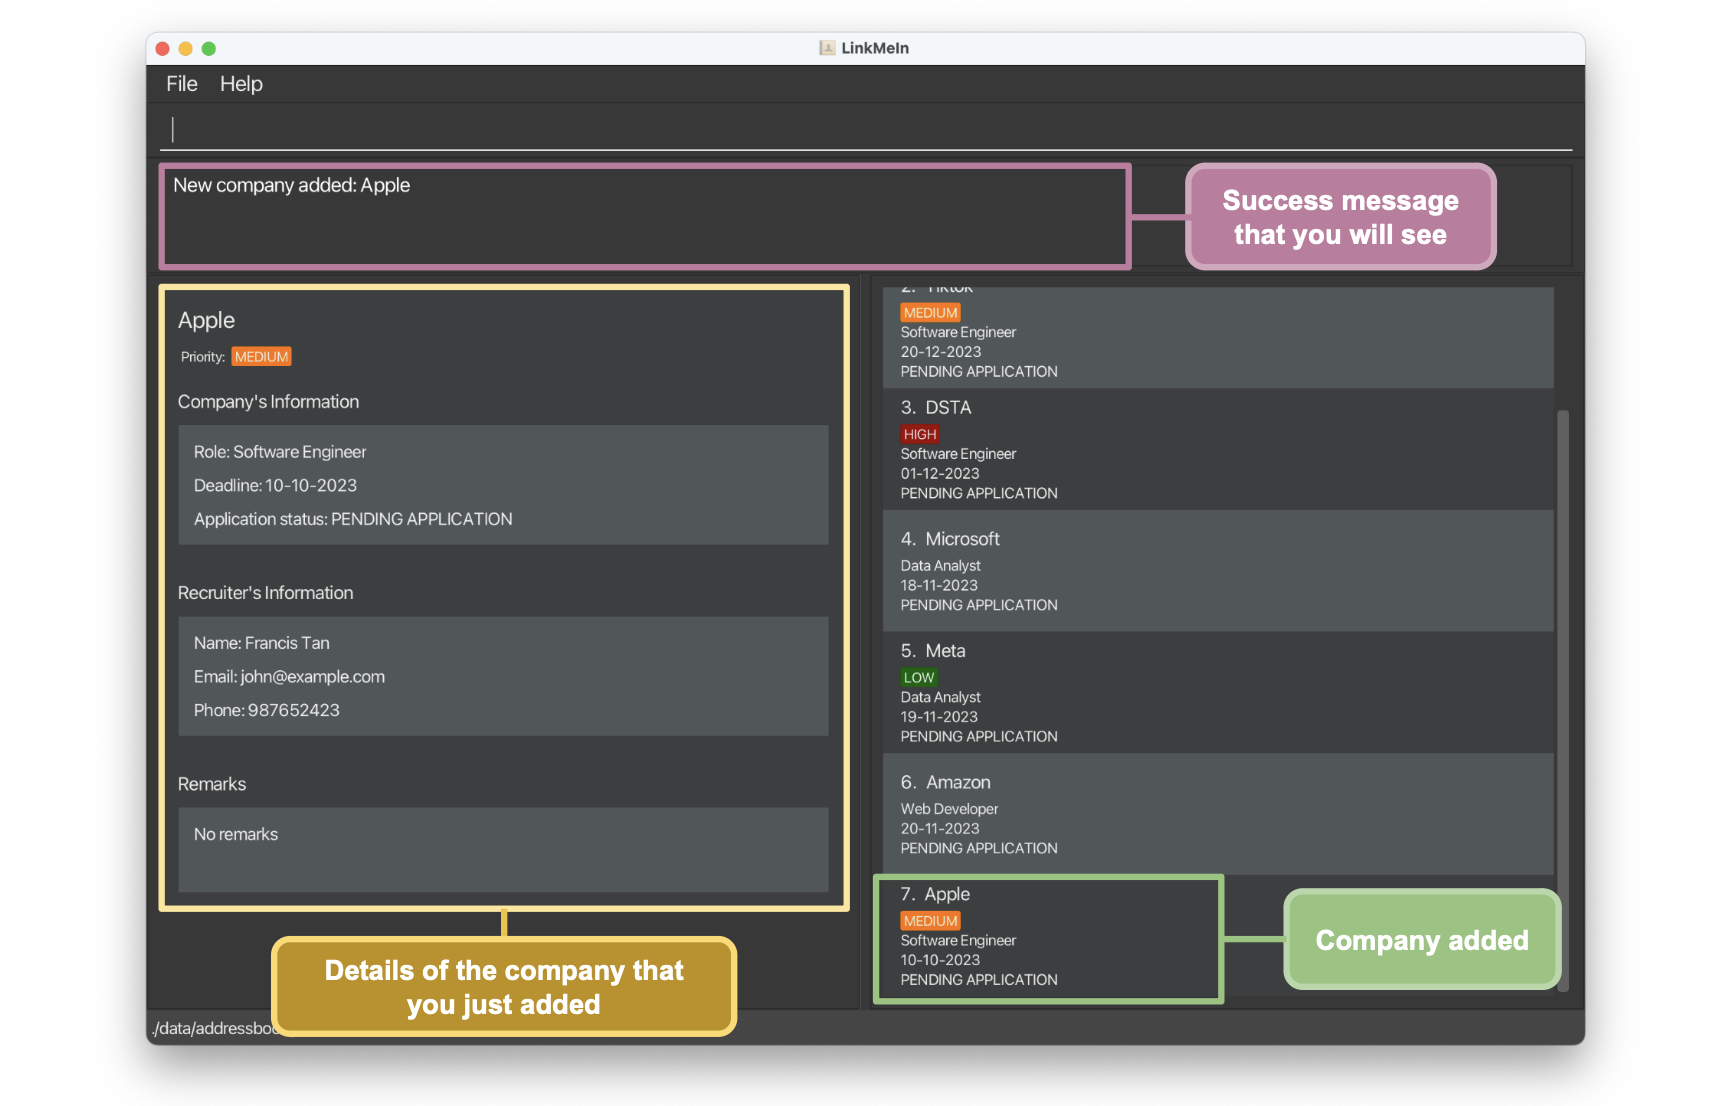
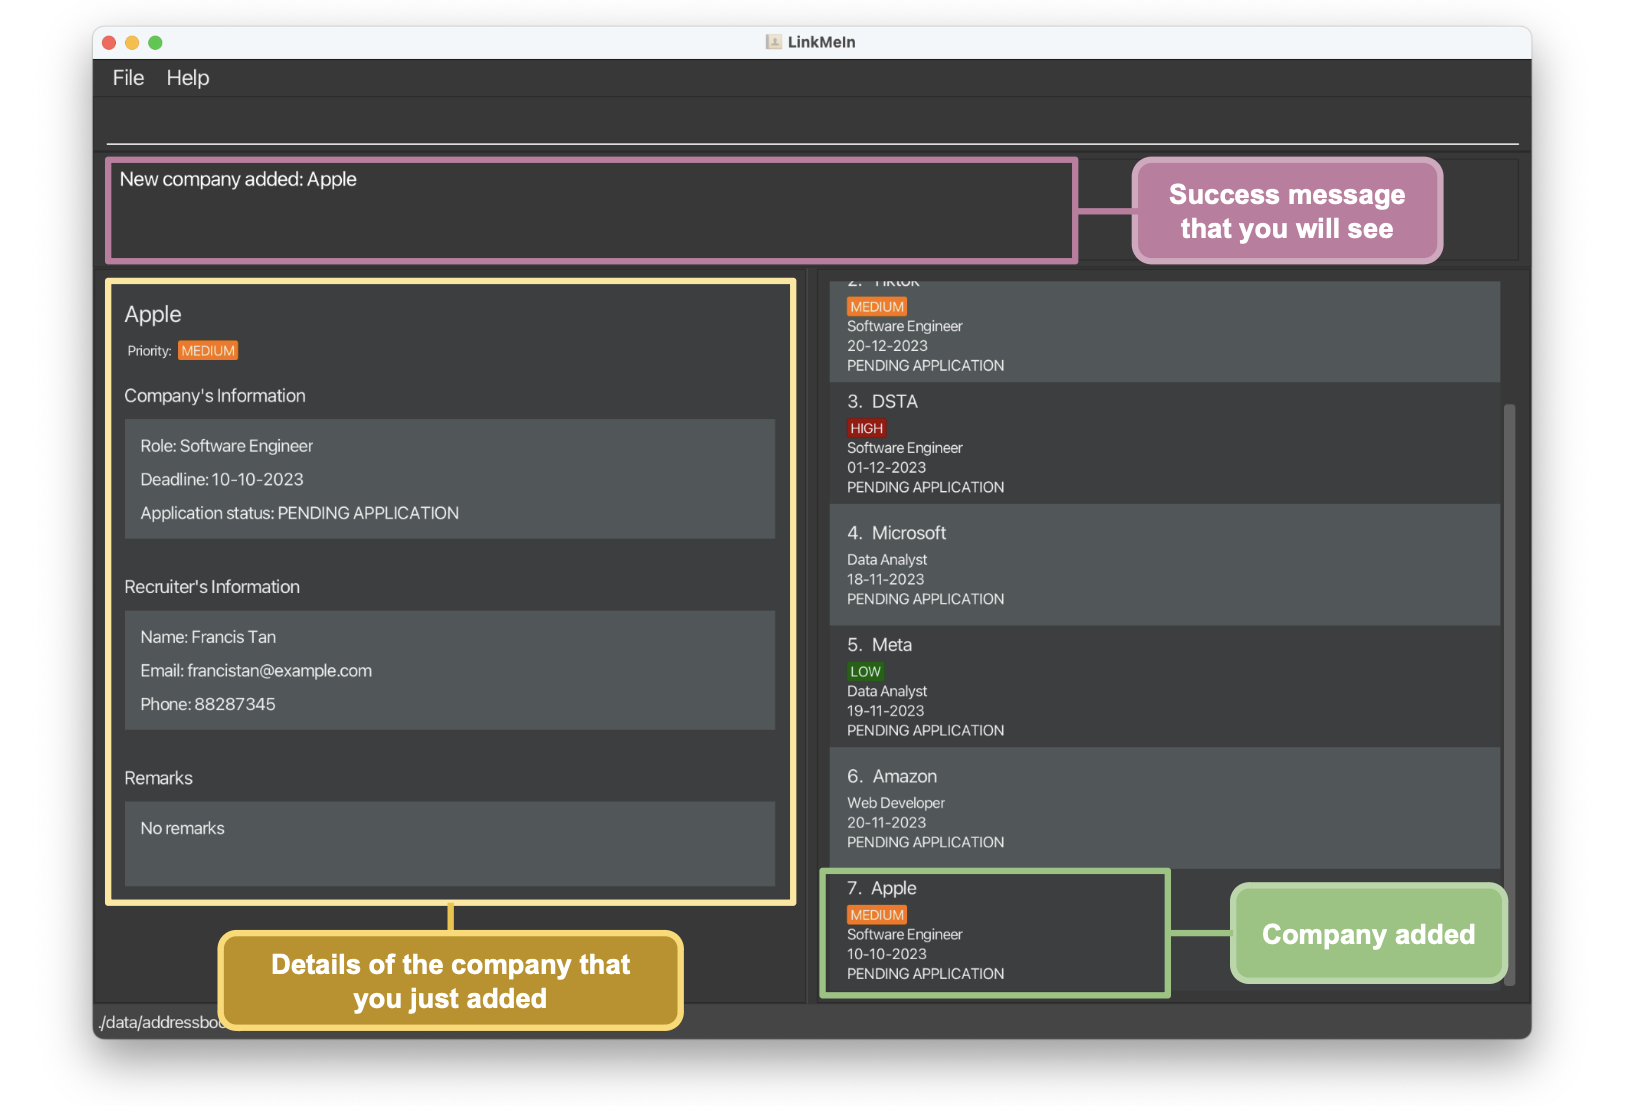
Update ui images

Changed region(s): [[0.0311, 0.0307, 0.964, 0.9837]]

diff --git a/docs/UserGuide.md b/docs/UserGuide.md
@@ -237,8 +237,8 @@ Adding a company is the first step to tracking your internship applications. Let
 **Step 1:** Let's say you are interested to apply for the **Software Engineer** role from **Apple**. Through the application description, you obtained the following information:
 * **Deadline:** 10-10-2023
 * **Recruiter Name:** Francis Tan
-* **Email:** john@example.com
-* **Phone Number:** 987652423
+* **Email:** francistan@example.com
+* **Phone Number:** 88287345
 
 This application is of **medium** priority as you have other applications that you want to focus on first.
 
